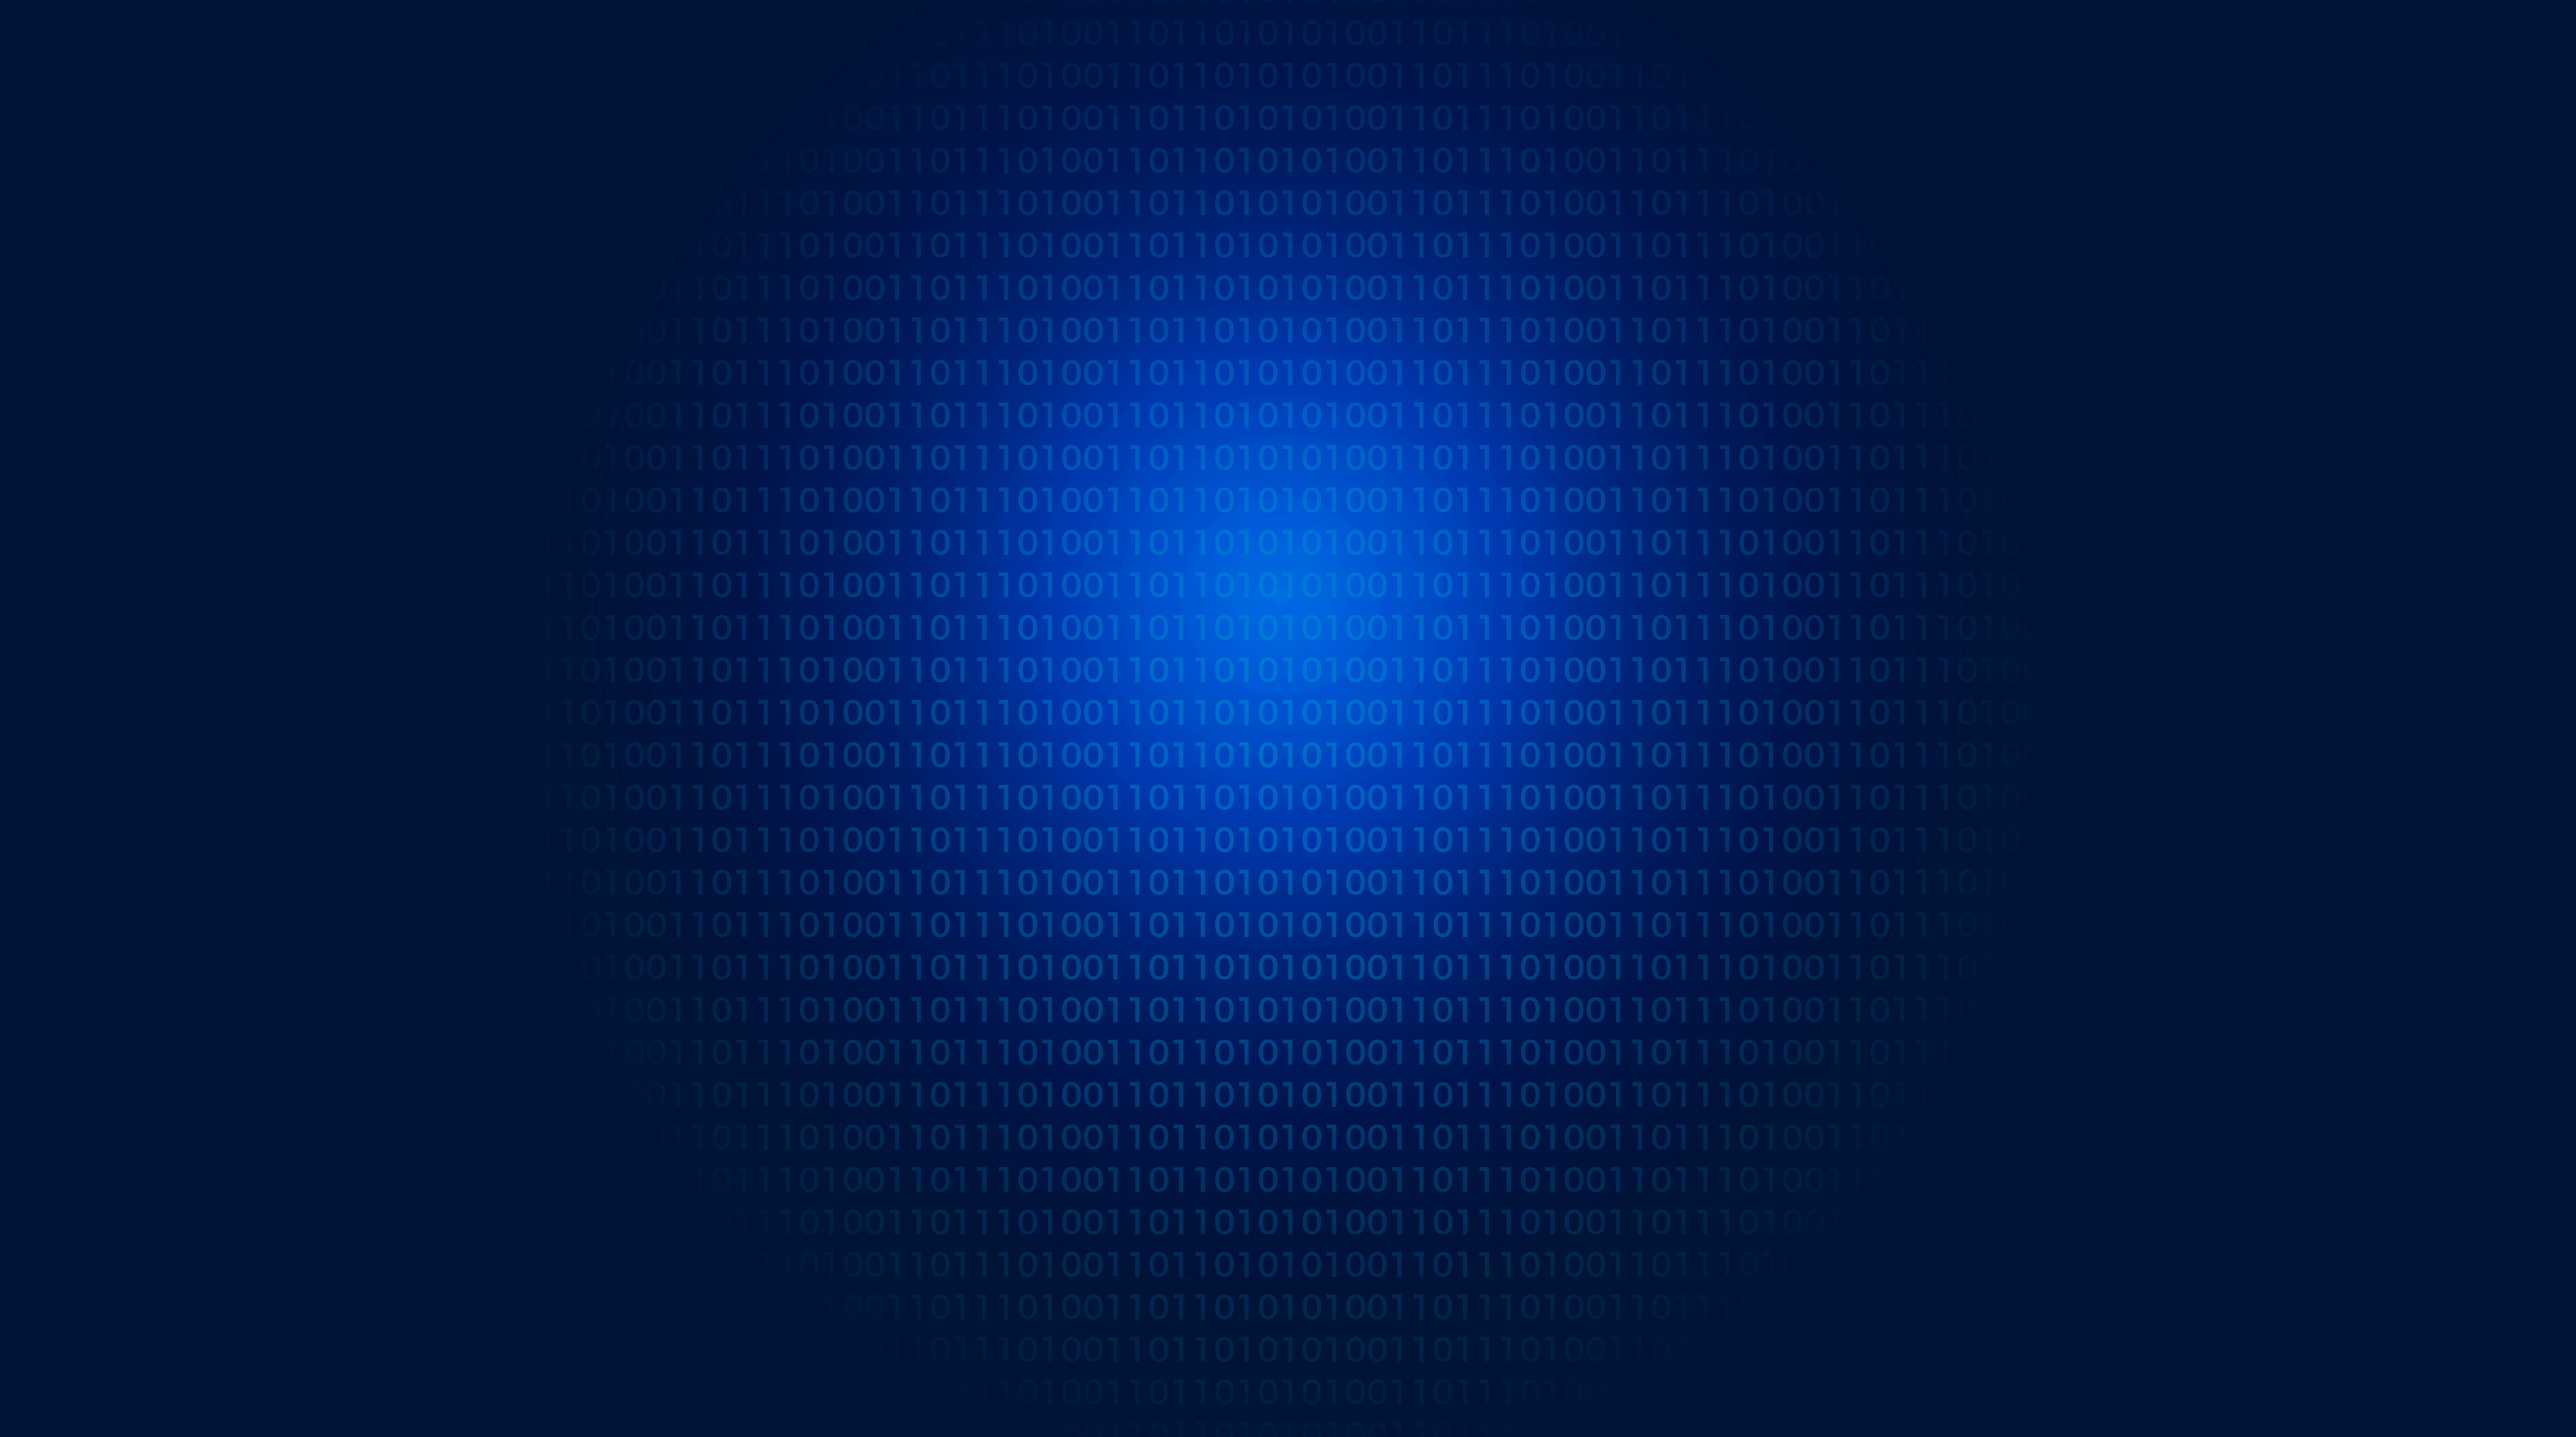
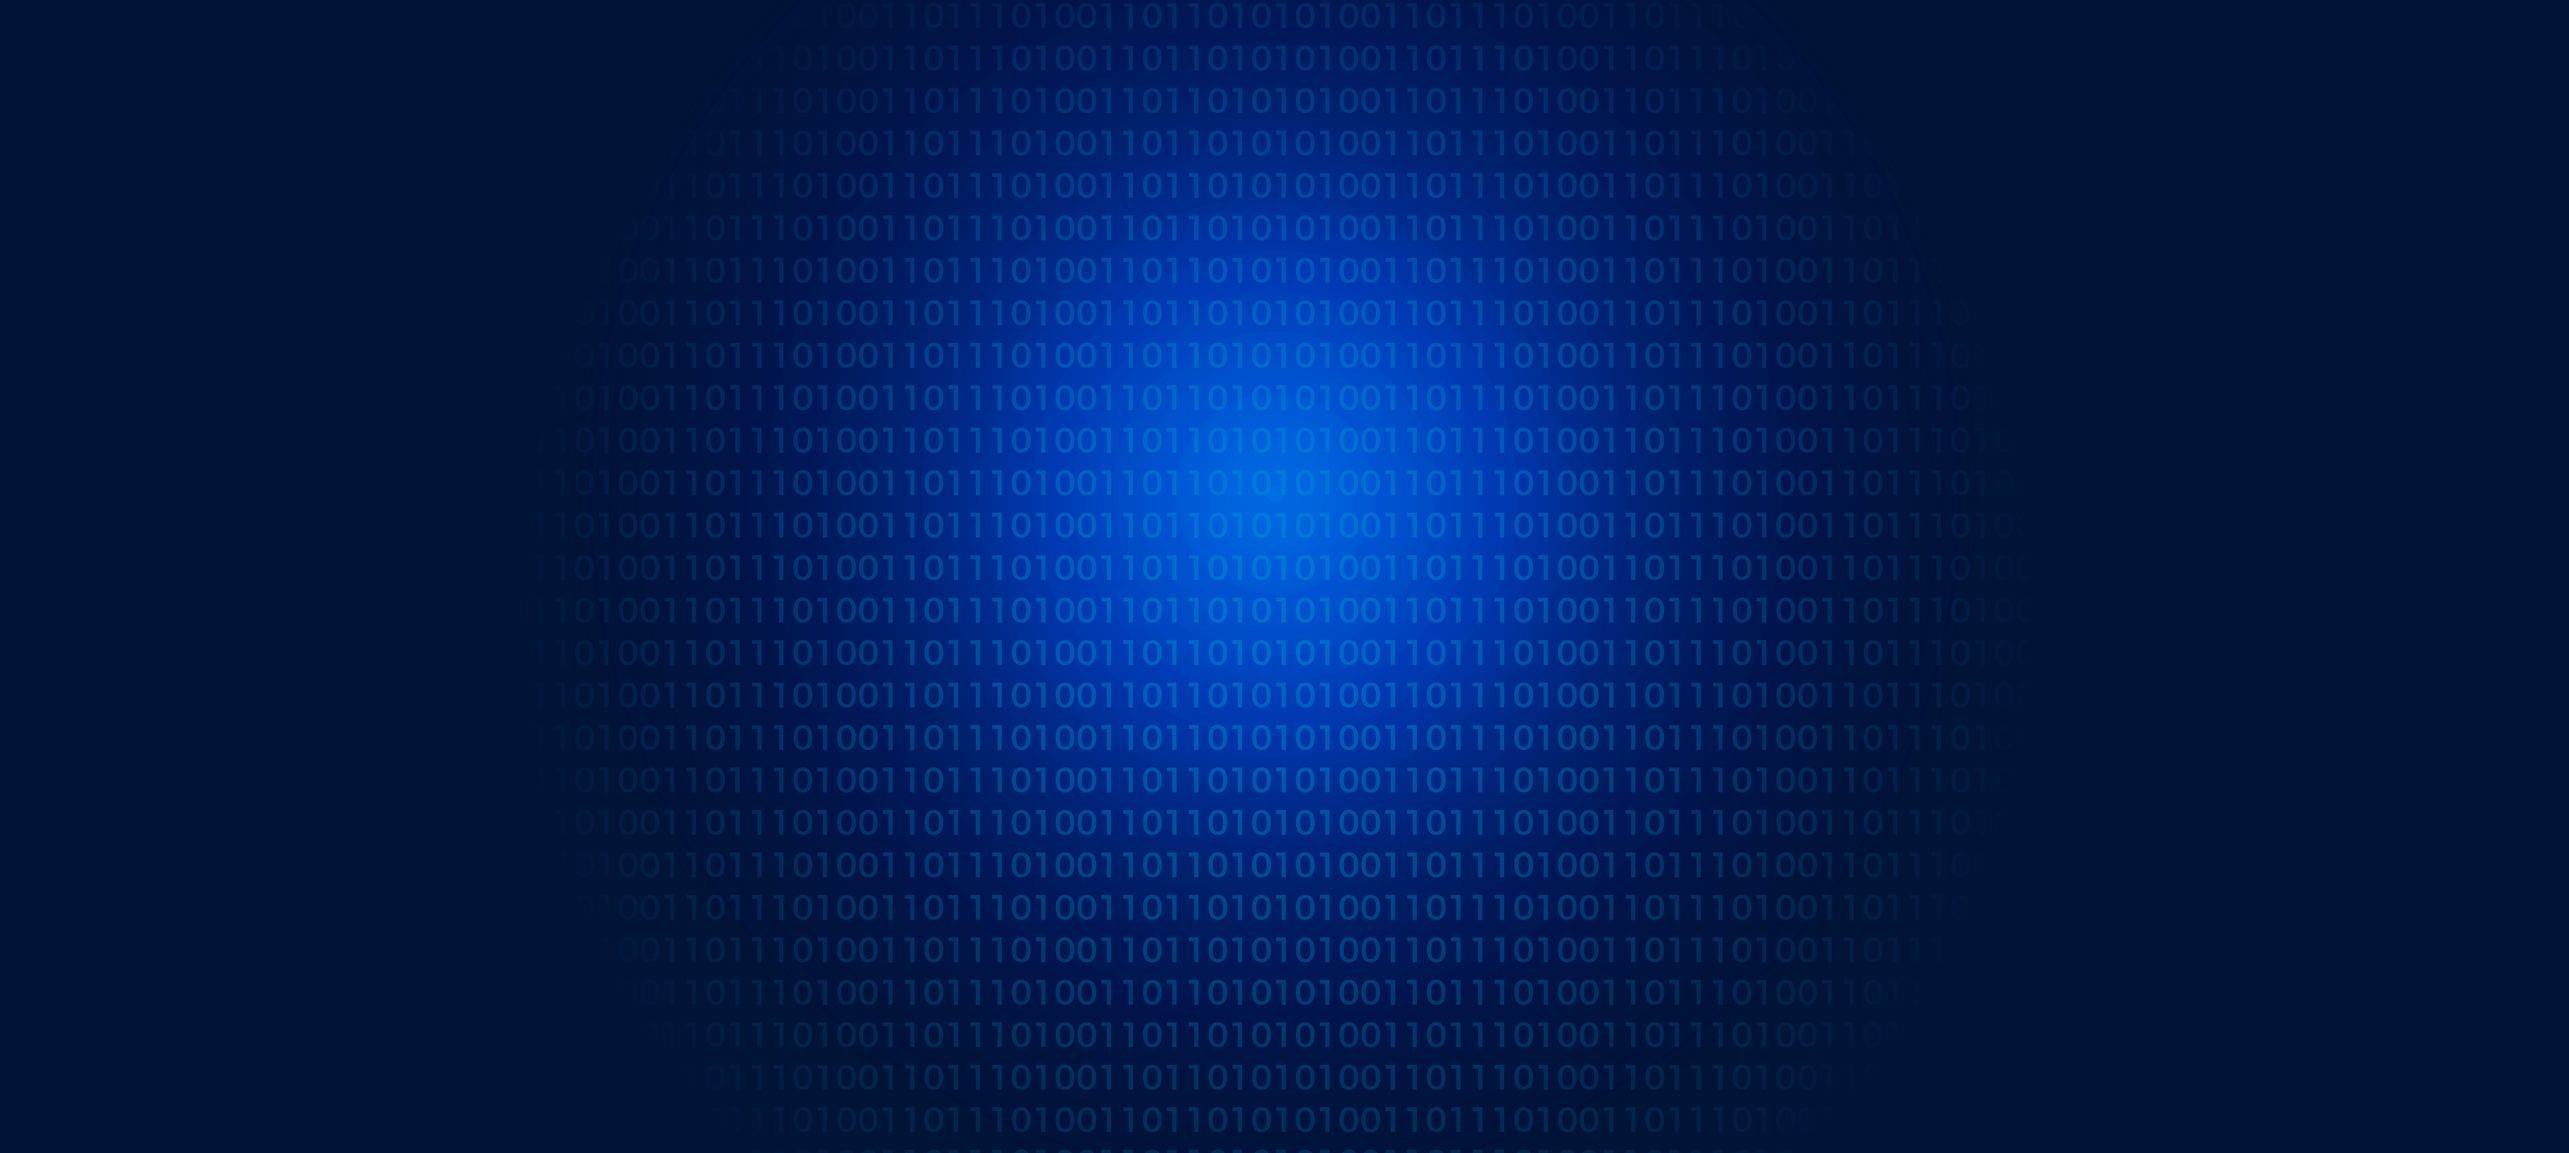
Added login page

Changed region(s): [[0.2801, 0.0, 0.7158, 1.0]]

diff --git a/src/app/login/login.component.html b/src/app/login/login.component.html
@@ -1,9 +1,49 @@
 <div class="main-container">
-    <div class="form-container">
-        <div class="form-title">LOGIN</div>
-        <input class="field" type="text" placeholder="Enter Email">
-        <button class="field" >VERIFY</button>
-        <input class="field" type="text"  placeholder="Enter OTP">
-        <button class="field" >LOGIN</button>
+
+
+    <div *ngIf="loginPage" class="form-container">
+        <div class="form-title">
+            <span class="form-tag selected">
+                <span>LOGIN</span>
+                <span class="ruler"></span>
+            </span>
+            <!-- <span class="vertical-ruler"></span> -->
+            <span class="form-tag selected" (click)="onSingnUp()">
+                <span>SIGNUP</span>
+            </span>
+
+        </div>
+        <input class="field input-class" type="text" placeholder="Enter Email">
+
+        <button (click)="sendOtp()" class="field btn" >SEND OTP</button>
+
+        <div *ngIf="otpSent" class="verify-container">
+            <input class="field input-class" type="text" placeholder="Enter OTP">
+            <button class="field btn" (click)="openHome()">LOGIN</button>
+        </div>
+    </div>
+
+    <div *ngIf="!loginPage" class="form-container">
+        <div class="form-title">
+            <span class="form-tag selected" (click)="onSingnUp()">
+                <span>LOGIN</span>
+            </span>
+
+            <span class="form-tag selected">
+                <span>SIGNUP</span>
+                <span class="ruler"></span>
+            </span>
+
+        </div>
+
+        <input class="field input-class" type="text" placeholder="Enter Name">
+        <input class="field input-class" type="text" placeholder="Enter Email">
+
+        <button (click)="sendOtp()" class="field btn">SEND OTP</button>
+
+        <div *ngIf="otpSent" class="verify-container">
+            <input class="field input-class" type="text" placeholder="Enter OTP">
+            <button class="field btn">SIGNUP</button>
+        </div>
     </div>
 </div>

diff --git a/src/app/login/login.component.css b/src/app/login/login.component.css
@@ -1,22 +1,76 @@
-.main-container{
+.main-container {
     display: flex;
     justify-content: center;
+    position: relative; /* Required for stacking */
 }
-.form-container{
+.form-container {
+    margin-top: 80px;
     display: flex;
     flex-direction: column;
     width: 350px;
-    background-color: rgb(255,255,255,0.9);
-    border-radius: 15px;
-    padding: 10%
-}
-.field{
-    height: 40px;
-    margin-bottom: 10px;
-    outline: none;
-    border: none;
+    background-color: rgba(255, 255, 255, 1); /* Adjust alpha to control the shade */
+    border-radius: 2px;
+    padding: 20px;
+    position: relative; /* Required for stacking */
+    justify-content: space-around;
+
+
 }
 .form-title{
-    font-size: 2rem;
-    margin-bottom: 10px;
+    font-size: 1.8rem;
+    display: flex;
+    margin : 30px 0px 30px 0px;
+    justify-content: center;
+}
+.vertical-ruler{
+    height: 100%;
+    width: 4px;
+    background-color: #005694;
+}
+.ruler{
+    margin-top: 10px;
+    width: 100%;
+    height: 4px;
+    background-color: #005694;
+}
+.selected:hover{
+    background-color: rgb(245,245,245,0.8)
+}
+.form-tag{
+    display: flex;
+    flex-direction: column;
+    align-items: center;
+    color: #005694;
+    width: 100%;
+    padding-top: 8px;
+}
+
+
+
+.field {
+    height: 50px;
+    outline: none;
+    border: none;
+    border-radius: 2px;
+    font-size: 1.1;
+    color: #005694;
+    margin-bottom: 30px;
+}
+
+
+.btn{
+    background-color: #005694;
+    color: white;
+    font-weight: 600;
+}
+.btn:hover{
+    background-color: #A7CD74;
+}
+.input-class{
+    background-color: whitesmoke;
+    padding: 0px 15px;
+}
+.verify-container{
+    display: flex;
+    flex-direction: column;
 }

diff --git a/src/app/app.component.css b/src/app/app.component.css
@@ -1,40 +1,55 @@
-.header{
+.container{
+  display: flex;
+  flex-direction: column;
+  justify-content: space-between;
+}
+.header {
   display: flex;
   justify-content: center;
   background-color: white;
   z-index: 2;
-  margin-bottom: 20px;
 }
-.main-content{
-  position: relative;
-  margin-bottom: 20px;
-}
-.bg-image{
-    width: 100%;
-    background-size: cover;
-    animation: fade 5s ease-in-out infinite alternate;
-}
-  
-  @keyframes fade {
-    from { opacity: 0.3; }
-    to { opacity: 1; }
-  }
-  
-  .content{
-    display: flex;
-    position: absolute;
-    top: 50%;
-    left: 50%;
-    transform: translate(-50%,-50%);
-  }
-  .footer-container{
-    position: relative;
-    width: 100%;
-    border: 2px solid rgb(255,255,255,0.5);
-    color: white;
-    font-size: 1.2rem;
-    display: flex;
-    justify-content: center;
-  }
 
-  
+.main-content {
+ overflow: hidden;
+ height: 100vh;
+}
+.main-background {
+  z-index: -1;
+  position: absolute;
+  width: 100%;
+  height: 100vh;
+  overflow: hidden;
+}
+
+.main-background::before {
+  content: "";
+  position: absolute;
+  top: 0;
+  left: 0;
+  width: 100%;
+  height: 200%; 
+  background-image: url("../assets/images/0101ani-01.png"), url("../assets/images/0101ani-01.png"); 
+  background-position: center, center;
+  background-size: cover, cover;
+  animation: flowAnimation 60s linear infinite;
+}
+
+@keyframes flowAnimation {
+  from {
+    transform: translateY(0%);
+  }
+  to {
+    transform: translateY(-50%); 
+  }
+}
+
+.footer-container {
+  width: 100%;
+  /* border: 2px solid rgb(255, 255, 255, 0.5); */
+  background-color: white;
+  color: #001437;
+  font-size: 1.2rem;
+  display: flex;
+  justify-content: center;
+}

diff --git a/src/app/login/login.component.ts b/src/app/login/login.component.ts
@@ -1,16 +1,54 @@
+import { CommonModule } from '@angular/common';
 import { Component } from '@angular/core';
 import { FormsModule } from '@angular/forms';
+import { RouterLink } from '@angular/router';
+import { Router } from '@angular/router';
 
 @Component({
   selector: 'app-login',
   standalone: true,
-  imports: [],
+  imports: [
+    CommonModule,
+    FormsModule,
+    RouterLink
+  ],
   templateUrl: './login.component.html',
   styleUrl: './login.component.css'
 })
 export class LoginComponent {
-  constructor(formModule : FormsModule){}
-email ='';
-code ='';
+
+constructor(private router: Router) { }
+
+
+  email = '';
+  code = '';
+  recievedCode ='';
+  loginPage = true;
+  otpSent = false;
+
+
+  openHome() {
+    this.recievedCode = '989898';//Use the service send otp to store the code
+    console.log("Otp sent is ", " and the recieved code is ", this.code);
+    if (this.code === '989898') {
+      this.router.navigate(['/home']);
+    }
+    else {
+      //notify by popUP that opt is not verified try again
+    }
+  }
+
+  //on send otp a mail to be sent to required witht a 6 digit otp
+  sendOtp() {
+    //sendOtp
+    this.code = '989898';//replace this with service sendOtp
+    this.otpSent = true;
+
+  }
+
+  onSingnUp() {
+    this.loginPage = !this.loginPage;
+    this.otpSent = false;
+  }
 
 }

diff --git a/src/app/app.component.html b/src/app/app.component.html
@@ -1,12 +1,15 @@
-<div class="header">
+
+<div class="container" >
+<div  class="header">
     <img src="../assets/images/logo.svg" alt="University Logo" height="100px">
 </div>
 <div class="main-content">
-    <img src="../assets/images/0101ani-01.png" alt="bg-image" class="bg-image">
-    <div class="content">
+    <div class="main-background"></div>
+    <div >
         <router-outlet></router-outlet>
     </div>
 </div>
 <footer class="footer-container">
-    <p class="footer">&copy; BINGEN University 2024</p>
+    <p>&copy; BINGEN University 2024</p>
 </footer>
+</div>

diff --git a/src/app/app.component.ts b/src/app/app.component.ts
@@ -1,13 +1,15 @@
 import { Component } from '@angular/core';
 import { RouterOutlet } from '@angular/router';
 import { FormsModule } from '@angular/forms';
+import { CommonModule } from '@angular/common';
 
 @Component({
   selector: 'app-root',
   standalone: true,
   imports: [
     RouterOutlet,
-    FormsModule
+    FormsModule,
+    CommonModule
   ],
   templateUrl: './app.component.html',
   styleUrl: './app.component.css'
